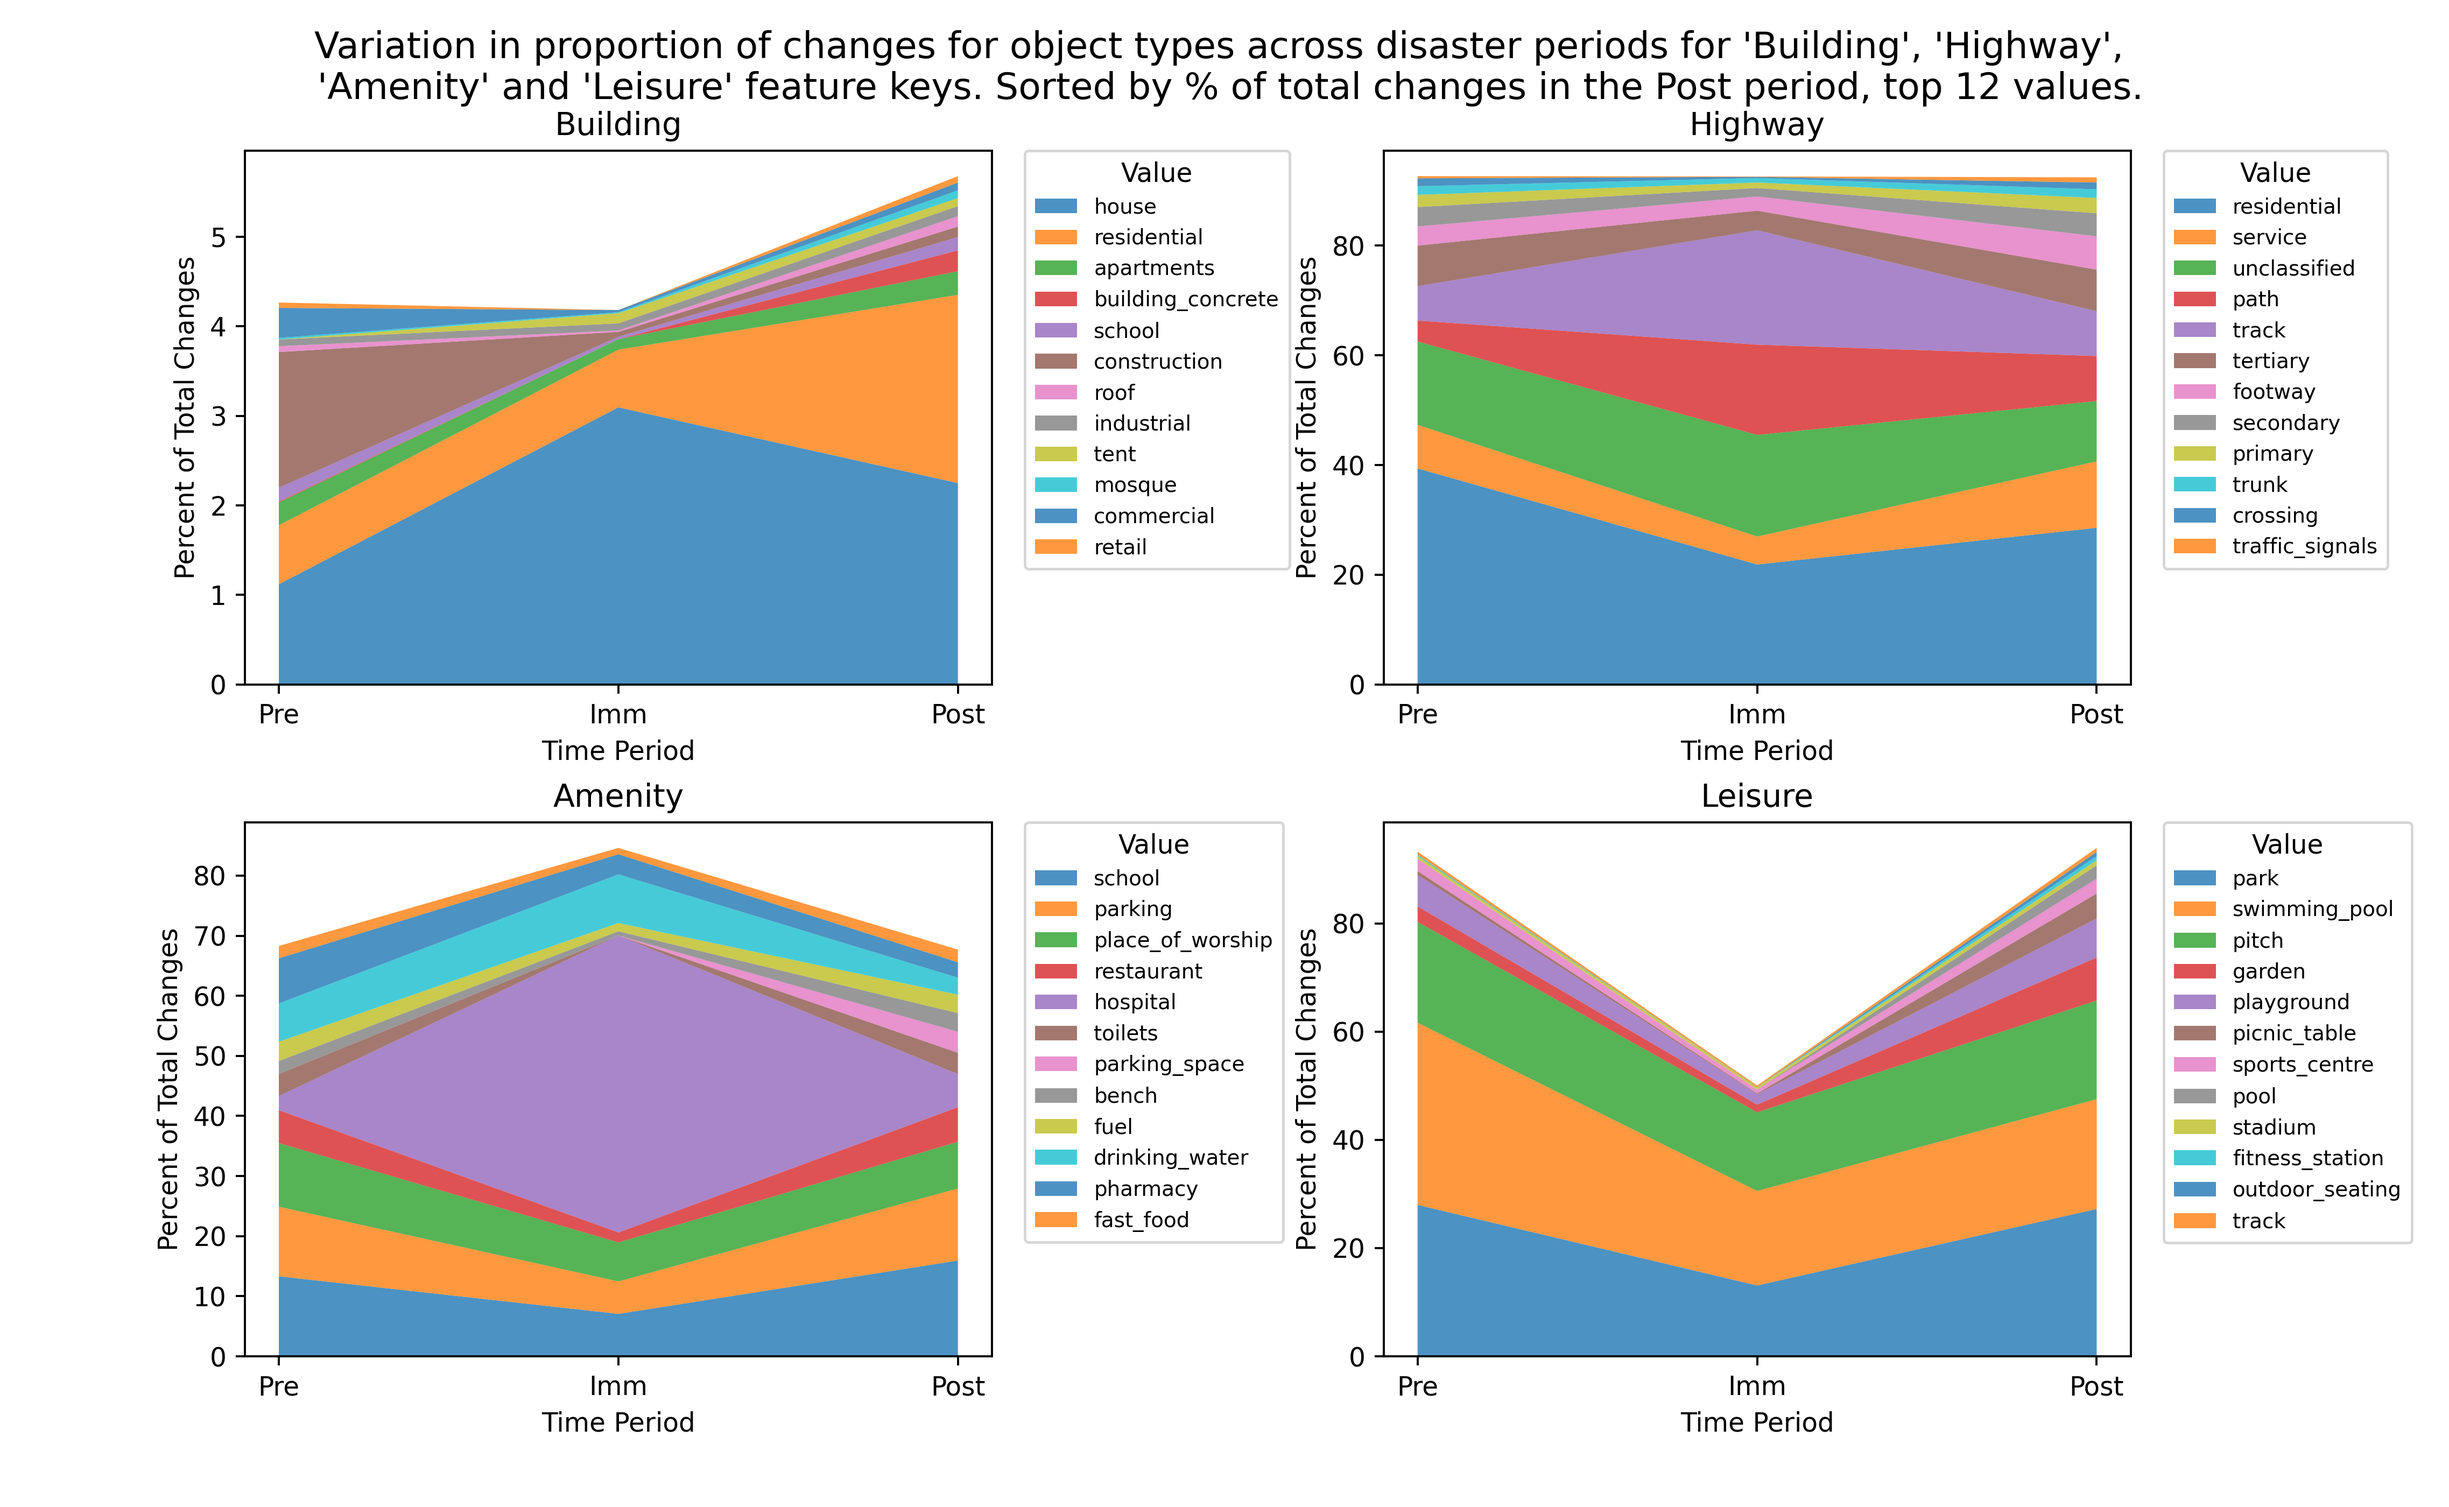
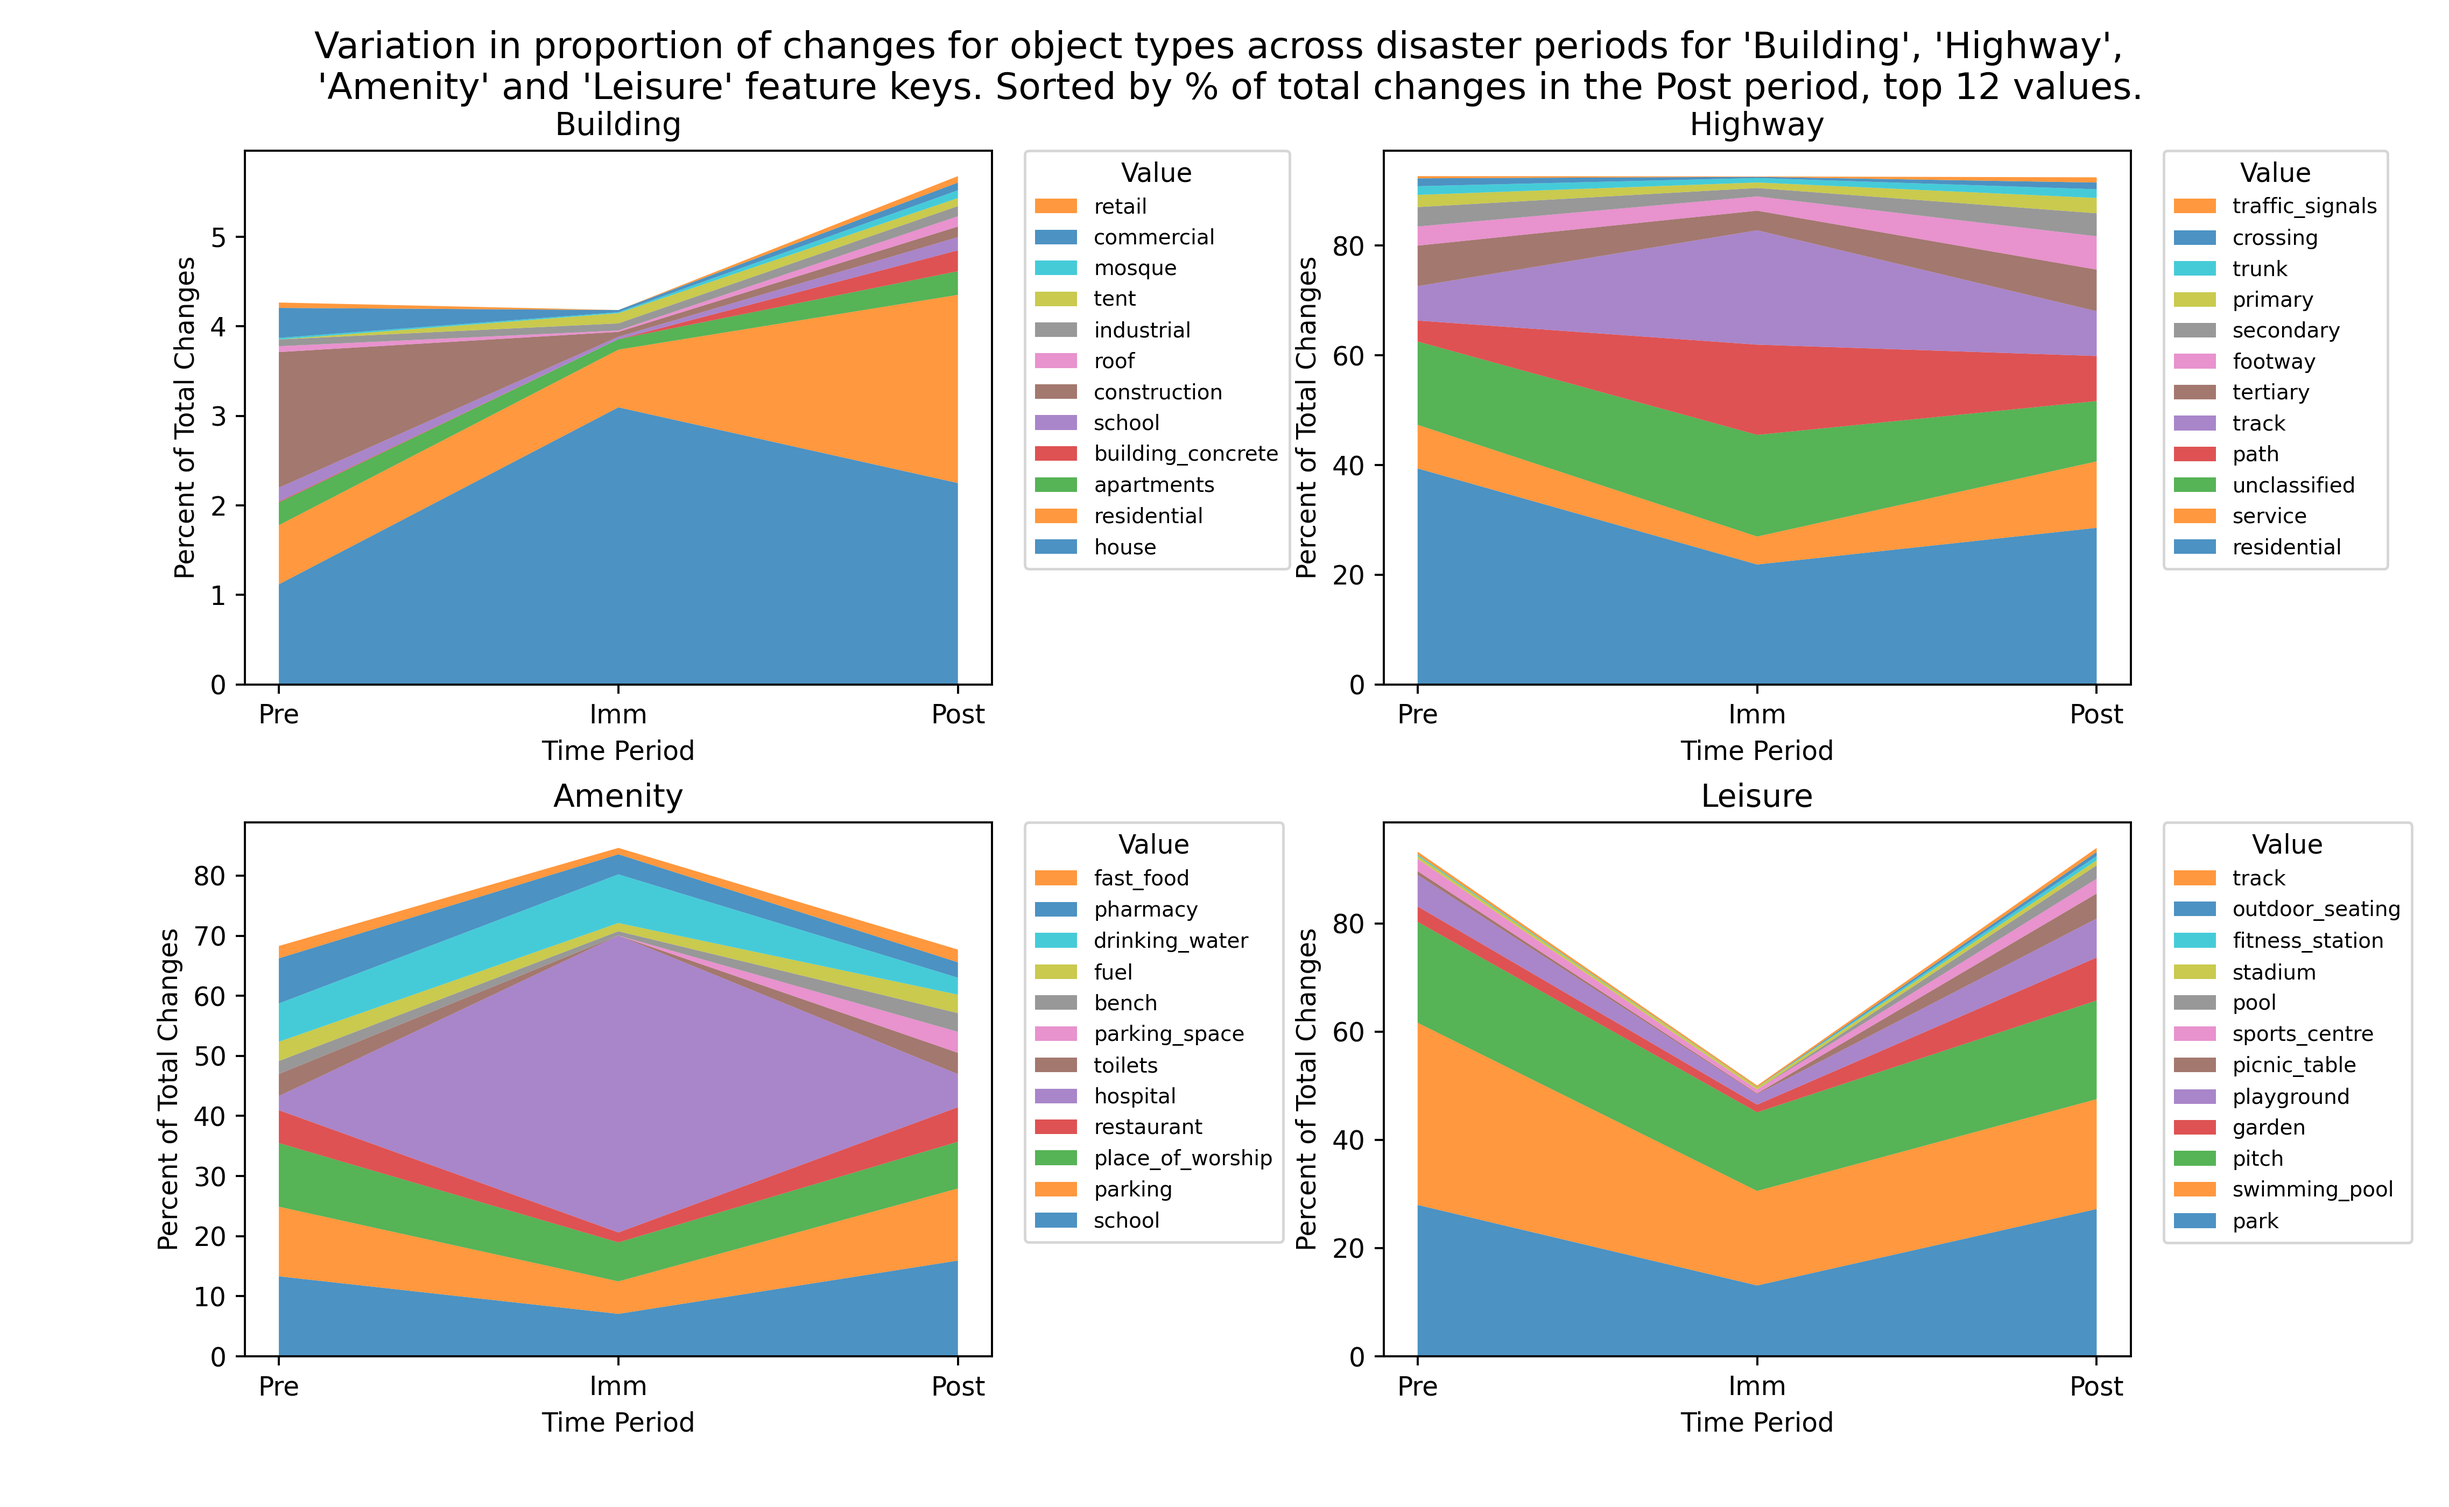
updates the overall by period tag key value usage charts so that the legend values line up with the stacked plot. Makes easier to read

diff --git a/visualisation-site/src/GeneralSatistics.jsx b/visualisation-site/src/GeneralSatistics.jsx
@@ -101,7 +101,7 @@ export default function GeneralStatistics() {
             <div>
                 <h2>Changes to tags across periods</h2>
                 <Image
-                    width="50%"
+                    width="5U0%"
                     src={`ChangeDifferences/summary/most_x_key_analysis_365_60_365.png`}
                 />
                

diff --git a/Scripts/research_tools/investigate_tags/tag_investigation_charting.py b/Scripts/research_tools/investigate_tags/tag_investigation_charting.py
@@ -65,7 +65,10 @@ def plot_chart_percent_of_total_changes_period_for_keys(keys):
     ax.set_xlabel("Time Period")
     ax.set_ylabel(f"% of Total Changes")
 
-    ax.legend(loc="upper left", bbox_to_anchor=(1, 1.02), title="Feature", frameon=True)
+    # Reverse the legend order
+    handles, labels = ax.get_legend_handles_labels()
+    ax.legend(handles[::-1], labels[::-1], loc="upper left", bbox_to_anchor=(1, 1.02), title="Feature key", frameon=True)
+
     plt.subplots_adjust(left=0.1, right=0.82, top=0.9, bottom=0.1)  # More space on the right
 
     # Show the plot
@@ -159,16 +162,16 @@ def plot_chart_percent_of_total_changes_period_for_values(keys, n, sort_by):
         ax.set_title(f"{key.capitalize()}")
         ax.set_xlabel("Time Period")
         ax.set_ylabel("Percent of Total Changes")
-         # Move legend outside each subplot
-        ax.legend(
-            loc="upper left",
-            bbox_to_anchor=(1.03, 1.02),
-            title="Value",
-            fontsize=8,
-            frameon=True,
-            framealpha=0.8,
-            borderpad=0.5
-        )
+         # Move legend outside each subplot and reverse the legend order so that it lines up with the actual plot
+        handles, labels = ax.get_legend_handles_labels()
+        ax.legend(handles[::-1], labels[::-1], 
+                  loc="upper left", 
+                  bbox_to_anchor=(1.03, 1.02), 
+                  title="Value", 
+                  fontsize=8, 
+                  frameon=True, 
+                  framealpha=0.8,
+                  borderpad=0.5)
 
 
     # Hide any empty subplots (if `len(keys)` is not exactly `nrows * ncols`)
@@ -484,8 +487,8 @@ if __name__ == "__main__":
 
     keys = ["building", "highway", "amenity", "leisure"]
 
-    compare_percent_of_changes_period = False
-    generate_charts_usage_by_disaster = True
+    compare_percent_of_changes_period = True
+    generate_charts_usage_by_disaster = False
 
     db_utils = DB_Utils()
     db_utils.db_connect()
